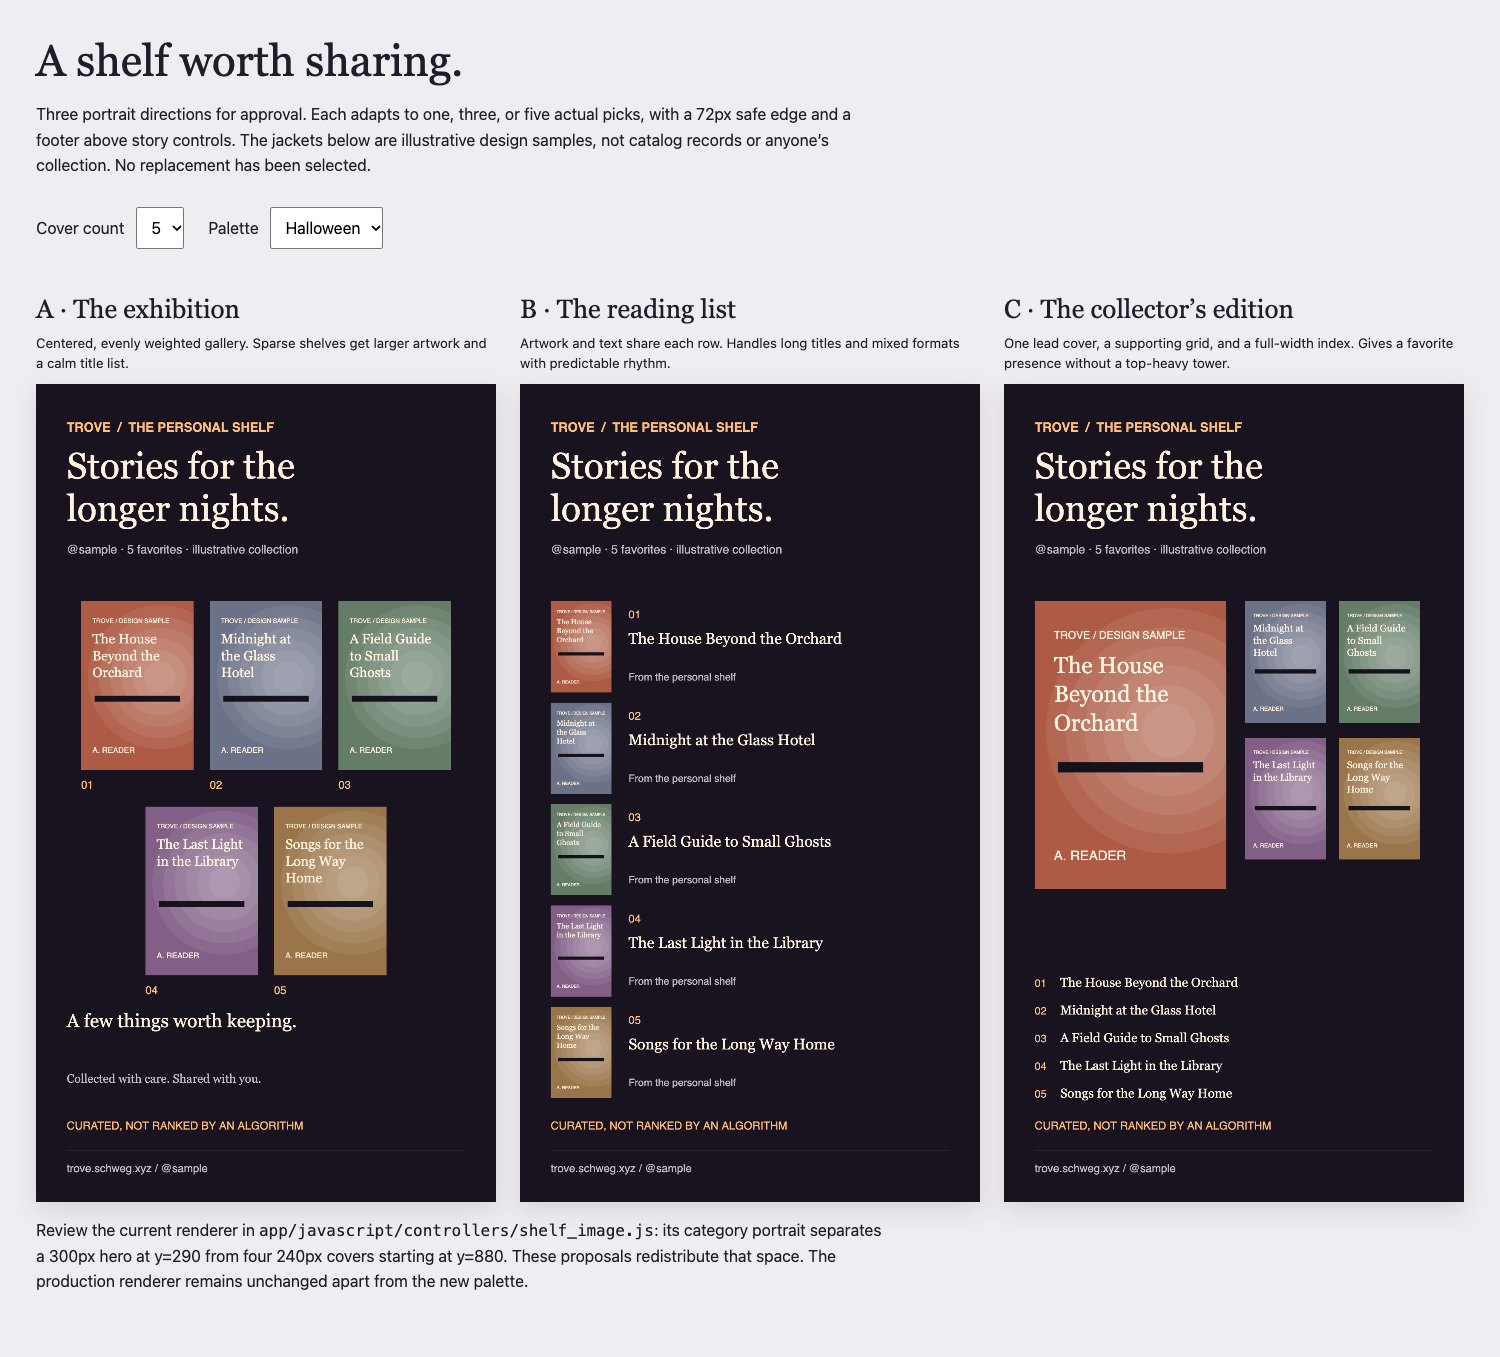
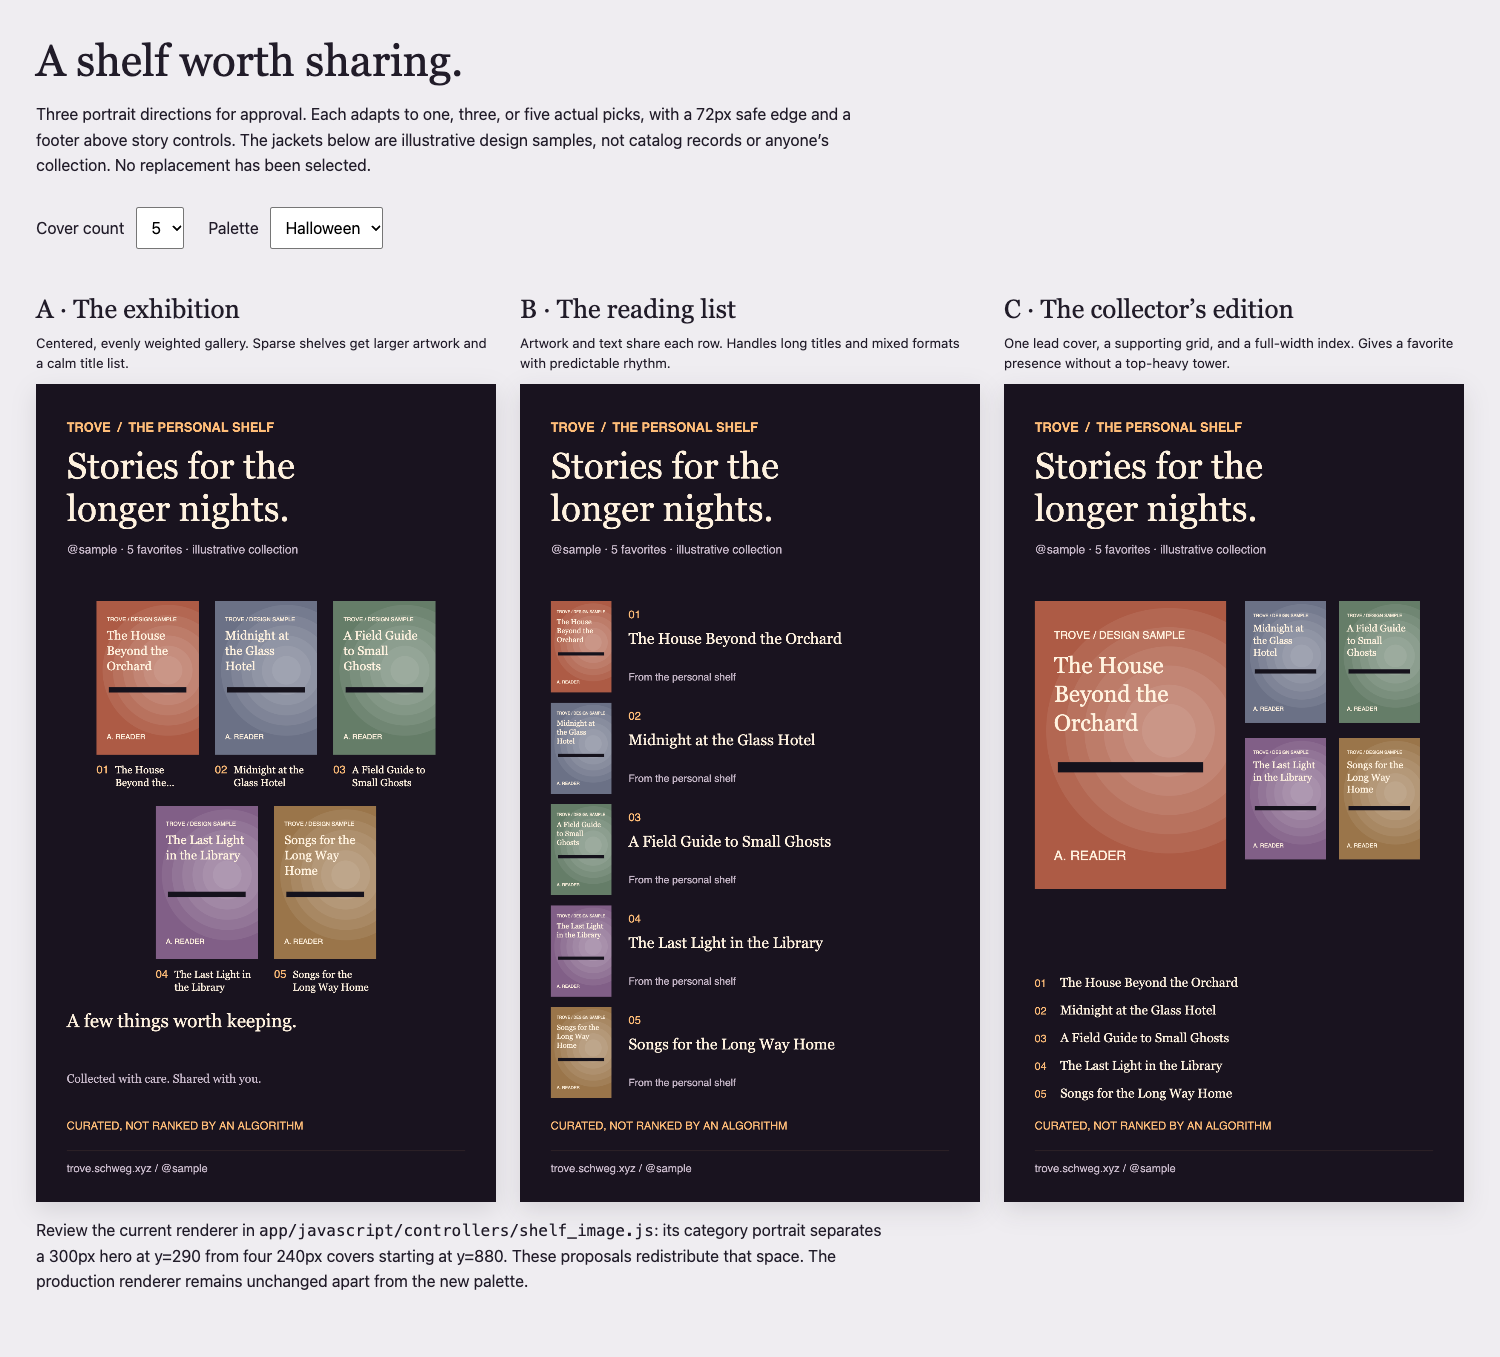
Keep gallery proposal titles readable independently of cover artwork

Changed region(s): [[0.0307, 0.4333, 0.3067, 0.7428]]

diff --git a/docs/design/shelf-social-options.html b/docs/design/shelf-social-options.html
@@ -14,7 +14,7 @@ const colors=['#ad5b45','#6b7186','#657d68','#815f87','#9a754a']
 function text(c,str,x,y,width,size=32,max=2){c.font=`${size}px Georgia`;let words=str.split(' ');for(let line=0;line<max&&words.length;line++){let row=words.shift();while(words.length&&c.measureText(row+' '+words[0]).width<=width)row+=' '+words.shift();if(line===max-1&&words.length)row+='…';c.fillText(row,x,y+line*size*1.25,width)}}
 function jacket(c,i,x,y,w,h){c.save();c.beginPath();c.rect(x,y,w,h);c.clip();c.fillStyle=colors[i];c.fillRect(x,y,w,h);c.fillStyle='#ffffff12';for(let k=0;k<6;k++){c.beginPath();c.arc(x+w*.7,y+h*.45,w*(.14+k*.1),0,Math.PI*2);c.fill()}c.fillStyle='#15121c';c.fillRect(x+w*.12,y+h*.56,w*.76,h*.035);c.fillStyle='#fff2df';c.font=`${Math.max(10,w*.055)}px sans-serif`;c.fillText('TROVE / DESIGN SAMPLE',x+w*.1,y+h*.13,w*.8);text(c,names[i],x+w*.1,y+h*.25,w*.8,w*.12,3);c.font=`${w*.07}px sans-serif`;c.fillText('A. READER',x+w*.1,y+h*.9);c.restore()}
 function render(id,n,t){const el=document.querySelector('#'+id);el.width=1080;el.height=1920;const c=el.getContext('2d');c.fillStyle=t.bg;c.fillRect(0,0,1080,1920);c.fillStyle=t.accent;c.font='600 30px sans-serif';c.fillText('TROVE  /  THE PERSONAL SHELF',72,112);c.fillStyle=t.text;text(c,'Stories for the',72,222,936,86,1);text(c,'longer nights.',72,322,936,86,1);c.fillStyle=t.muted;c.font='28px sans-serif';c.fillText(`@sample · ${n} favorites · illustrative collection`,72,398)
-if(id==='a'){let cols=n===1?1:n===3?3:3;let w=n===1?480:n===3?280:264,h=w*1.5;for(let i=0;i<n;i++){let row=Math.floor(i/cols),inRow=Math.min(cols,n-row*cols),x=(1080-(inRow*w+(inRow-1)*38))/2+(i%cols)*(w+38),y=510+row*(h+86);jacket(c,i,x,y,w,h);c.fillStyle=t.accent;c.font='26px sans-serif';c.fillText(String(i+1).padStart(2,'0'),x,y+h+44)}let y=n===5?1510:n===3?1150:1400;c.fillStyle=t.text;text(c,n===1?names[0]:'A few things worth keeping.',72,y,936,44,2);c.fillStyle=t.muted;text(c,'Collected with care. Shared with you.',72,y+130,936,28,2)}
+if(id==='a'){let cols=n===1?1:n===3?3:3;let w=n===1?480:n===3?280:240,h=w*1.5;for(let i=0;i<n;i++){let row=Math.floor(i/cols),inRow=Math.min(cols,n-row*cols),x=(1080-(inRow*w+(inRow-1)*38))/2+(i%cols)*(w+38),y=510+row*(h+120);jacket(c,i,x,y,w,h);c.fillStyle=t.accent;c.font='26px sans-serif';c.fillText(String(i+1).padStart(2,'0'),x,y+h+44);if(n>1){c.fillStyle=t.text;text(c,names[i],x+44,y+h+44,w-44,24,2)}}let y=n===5?1510:n===3?1150:1400;c.fillStyle=t.text;text(c,n===1?names[0]:'A few things worth keeping.',72,y,936,44,2);c.fillStyle=t.muted;text(c,'Collected with care. Shared with you.',72,y+130,936,28,2)}
 if(id==='b'){const h=n===5?214:n===3?340:760,gap=n===5?24:48;for(let i=0;i<n;i++){let y=510+i*(h+gap),w=Math.min(h*2/3,440);jacket(c,i,72,y,w,h);c.fillStyle=t.accent;c.font='26px sans-serif';c.fillText(String(i+1).padStart(2,'0'),w+112,y+40);c.fillStyle=t.text;text(c,names[i],w+112,y+100,896-w,n===1?52:36,3);c.fillStyle=t.muted;c.font='24px sans-serif';c.fillText('From the personal shelf',w+112,y+h-28)}}
 if(id==='c'){if(n===1){jacket(c,0,270,510,540,810)}else{jacket(c,0,72,510,450,675);let w=n===3?250:190,h=w*1.5;for(let i=1;i<n;i++){let col=n===3?0:(i-1)%2,row=n===3?i-1:Math.floor((i-1)/2);jacket(c,i,566+col*220,510+row*(h+36),w,h)}}c.fillStyle=t.text;for(let i=0;i<n;i++){c.fillStyle=t.accent;c.font='25px sans-serif';c.fillText(String(i+1).padStart(2,'0'),72,1415+i*65);c.fillStyle=t.text;text(c,names[i],132,1415+i*65,876,30,1)}}
 c.strokeStyle=t.line;c.beginPath();c.moveTo(72,1800);c.lineTo(1008,1800);c.stroke();c.fillStyle=t.muted;c.font='26px sans-serif';c.fillText('trove.schweg.xyz / @sample',72,1850);c.fillStyle=t.accent;c.fillText('CURATED, NOT RANKED BY AN ALGORITHM',72,1750,936)}
